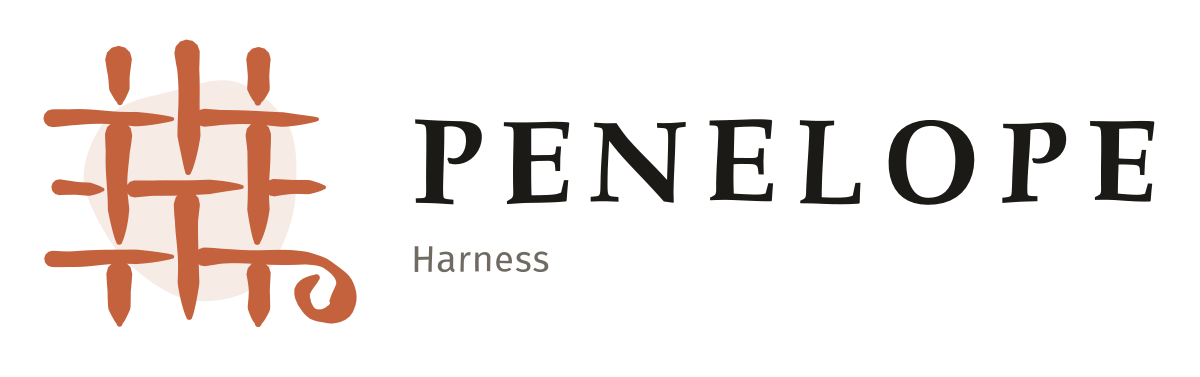
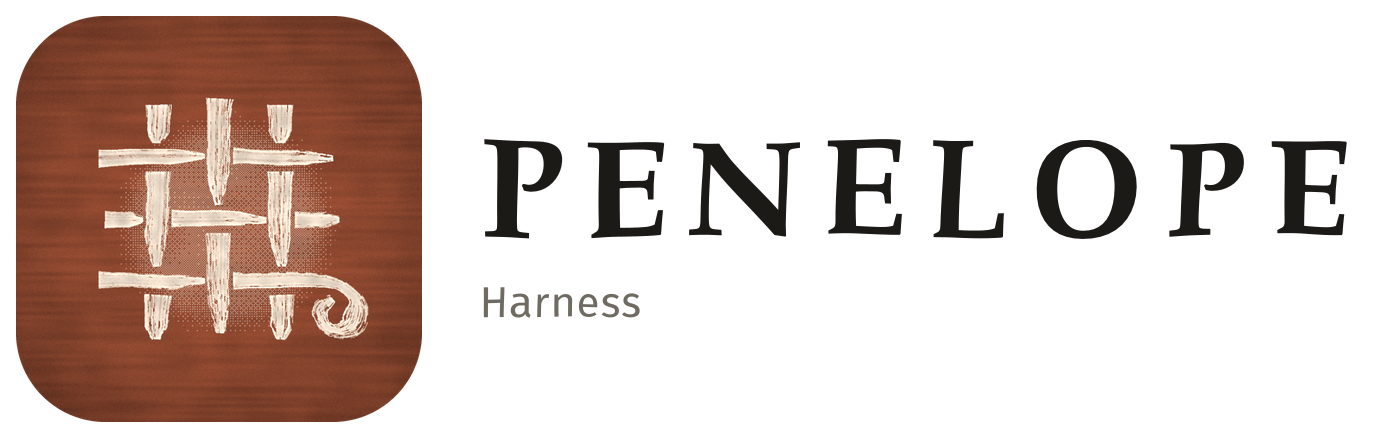
Penelope 0.8.0: agency renamed to Laertes, families Utis, Klea, Tiresias, Telemach, painted brand

diff --git a/cli/src/tools.rs b/cli/src/tools.rs
@@ -74,7 +74,7 @@ fn guard(ctx: &Ctx, text: &str) -> String {
     guard_count(ctx, text).0
 }
 
-/// The eight model families of Polytrope and what does each job in Penelope today.
+/// The eight model families of Laertes and what does each job in Penelope today.
 pub fn crew(ctx: &Ctx) -> String {
     let model = |key: &str| format!("{} ({})", ctx.cfg[key]["model"].as_str().unwrap_or("?"), ctx.cfg[key]["kind"].as_str().unwrap_or("?"));
     let masked = fs::read_to_string(ctx.root.join("stats.json")).ok().and_then(|s| serde_json::from_str::<serde_json::Value>(&s).ok())
@@ -88,19 +88,19 @@ pub fn crew(ctx: &Ctx) -> String {
             "off" => format!("main model {} writes every tool call", model("main")),
             mode => format!("stand-in {} runs lookups as scout (delegate {})", crate::scout::model(ctx)["model"].as_str().unwrap_or("?"), mode),
         }),
-        ("Teiresias", "router and decisions", "fixed rules: safe list for commands, walk through the memory map".to_string()),
-        ("Outis", "privacy and PII detection", privacy),
+        ("Tiresias", "router and decisions", "fixed rules: safe list for commands, walk through the memory map".to_string()),
+        ("Utis", "privacy and PII detection", privacy),
         ("Aiolos", "compression and summaries", format!("stand-in {} condenses long tool output", model("weak"))),
         ("Argos", "judge and scoring", "not in use yet".to_string()),
-        ("Kleia", "data filter", "not in use yet".to_string()),
-        ("Phaiax", "coding and agents", format!("main model {}", model("main"))),
+        ("Klea", "data filter", "not in use yet".to_string()),
+        ("Telemach", "coding and agents", format!("main model {}", model("main"))),
         ("Proteus", "ML engineering, MoE conversion", "not in use yet".to_string()),
     ];
     let mut out = format!("{:<10} {:<31} {}\n", "family", "role", "today in Penelope");
     for (name, role, today) in rows {
         out.push_str(&format!("{:<10} {:<31} {}\n", name, role, today));
     }
-    out.push_str("\nNo Polytrope model is trained yet. A row changes when a model replaces its stand-in.\n");
+    out.push_str("\nNo Laertes model is trained yet. A row changes when a model replaces its stand-in.\n");
     out
 }
 

diff --git a/cli/src/tui/mod.rs b/cli/src/tui/mod.rs
@@ -153,7 +153,7 @@ pub struct App {
 }
 
 /// Labels and icons of status lines, so that a stored transcript finds its fixed texts again.
-const NOTE_KINDS: &[(&str, &str)] = &[("memory", "◆"), ("learned", "✦"), ("outis", "◆"), ("resumed", "↺"), ("unravel", "↺"), ("stopped", "■"), ("lesson", "✦"), ("scout", "◆"), ("note", "◆")];
+const NOTE_KINDS: &[(&str, &str)] = &[("memory", "◆"), ("learned", "✦"), ("utis", "◆"), ("resumed", "↺"), ("unravel", "↺"), ("stopped", "■"), ("lesson", "✦"), ("scout", "◆"), ("note", "◆")];
 
 fn item_json(item: &Item) -> serde_json::Value {
     use serde_json::json;
@@ -425,7 +425,7 @@ impl App {
                     self.scroll = 0;
                 }
                 Msg::Turn(TurnEvent::Masked(n)) => {
-                    self.note("◆", "outis", format!("{} masked in the request before the model read it", if n == 1 { "1 item".to_string() } else { format!("{} items", n) }), art::SEA);
+                    self.note("◆", "utis", format!("{} masked in the request before the model read it", if n == 1 { "1 item".to_string() } else { format!("{} items", n) }), art::SEA);
                     self.refresh_side();
                 }
                 Msg::Turn(TurnEvent::ToolStart { id, name, detail }) => {
@@ -1061,7 +1061,7 @@ mod tests {
         a.items.push(Item::Reply("Three files: **a**, `b` and c.".into()));
         let chat = screen(&mut a, 120, 40);
         assert!(chat.contains("list the files") && chat.contains("Three files: a, b and c."), "{}", chat);
-        assert!(chat.contains("MEMORY") && chat.contains("awake") && chat.contains("CREW") && chat.contains("outis"), "{}", chat);
+        assert!(chat.contains("MEMORY") && chat.contains("awake") && chat.contains("CREW") && chat.contains("utis"), "{}", chat);
         let narrow = screen(&mut a, 70, 24);
         assert!(!narrow.contains("MEMORY") && narrow.contains("[#|#]"), "{}", narrow);
     }

diff --git a/cli/src/tui/view.rs b/cli/src/tui/view.rs
@@ -400,7 +400,7 @@ fn sidebar(f: &mut Frame, app: &App, area: Rect) {
     ]);
     let (main, mkind) = model_line(app, false);
     let (weak, _) = model_line(app, true);
-    // The crew: the lead model answers, the stand-in for Aiolos condenses tool output, the rules of Outis guard secrets.
+    // The crew: the lead model answers, the stand-in for Aiolos condenses tool output, the rules of Utis guard secrets.
     let privacy = match app.ctx.cfg["privacy"].as_str().unwrap_or("rules") {
         "off" => "off".to_string(),
         level => format!("{} · {} masked", level, app.side.masked),
@@ -412,7 +412,7 @@ fn sidebar(f: &mut Frame, app: &App, area: Rect) {
             mode => format!("{} · scout {}", crate::scout::model(&app.ctx)["model"].as_str().unwrap_or("?"), mode),
         }, PAPER),
         ("aiolos".into(), format!("{} · stand-in", weak), PAPER),
-        ("outis".into(), privacy, PAPER),
+        ("utis".into(), privacy, PAPER),
     ]);
     if !app.side.plan.is_empty() {
         let rows = app.side.plan.iter().take(8).map(|(text, state)| {

diff --git a/cli/src/privacy.rs b/cli/src/privacy.rs
@@ -1,5 +1,5 @@
 //! The privacy filter. It masks secrets in requests and tool output before any model reads the text. Today it works
-//! with fixed rules. An Outis model takes this place later. The level "pii" also masks e-mail addresses and IBANs.
+//! with fixed rules. An Utis model takes this place later. The level "pii" also masks e-mail addresses and IBANs.
 
 const KEY_NAMES: &[&str] = &["password", "passwd", "secret", "token", "api_key", "apikey", "api-key", "access_key", "private_key", "authorization"];
 /// Prefix of a known key format and the shortest length that counts.

diff --git a/cli/src/main.rs b/cli/src/main.rs
@@ -1,4 +1,4 @@
-//! penelope: the Polytrope harness on the command line.
+//! penelope: the Laertes harness on the command line.
 
 mod backend;
 mod loom;

diff --git a/README.md b/README.md
@@ -1,13 +1,14 @@
-<p align="center"><img src="brand/lockup.png" alt="Penelope, the harness of Polytrope" width="70%"></p>
+<p align="center"><img src="brand/lockup.png" alt="Penelope, the harness of Laertes" width="70%"></p>
 
 # Penelope
 
-A command line harness that remembers the way. Penelope is the harness of Polytrope, an AI research agency. The name
-comes from the weaver of the Odyssey, who undid part of her work every night: the memory map of the harness can take
+A command line harness that remembers the way. Penelope is the harness of Laertes, an AI research agency. In the
+Odyssey Penelope weaves a shroud for Laertes and undoes part of it every night: the memory map of the harness can take
 notes back the same way. Earlier names of the project: Kate with the command `katecli` (until 0.3.0), Strix Forgery
-with the command `strix` (0.4.0).
+with the command `strix` (0.4.0). The agency was called VeeAI and Polytrope before. The model families Utis, Klea,
+Tiresias and Telemach were called Outis, Kleia, Teiresias and Phaiax until 0.7.0.
 
-Status: version 0.7.0, private. Seventeen real runs so far.
+Status: version 0.8.0, private. Seventeen real runs so far.
 
 <p align="center"><img src="docs/screens/chat.png" alt="penelope: transcript on the left, the woven mark and the session numbers on the right" width="100%"></p>
 
@@ -20,7 +21,7 @@ Status: version 0.7.0, private. Seventeen real runs so far.
 | [`brand/build/`](brand/build) | `term_art.sh` turns the SVG files into the pictures the interface draws |
 | [`docs/`](docs) | [`ROADMAP.md`](docs/ROADMAP.md) with every planned part and its state, screen pictures |
 
-The marks are drawn by a script in the Polytrope folder (`brand/build/` there). This folder holds a copy of the results.
+The marks are drawn by a script in the Laertes folder (`brand/build/` there). This folder holds a copy of the results.
 
 ## What it does
 
@@ -46,7 +47,7 @@ The marks are drawn by a script in the Polytrope folder (`brand/build/` there). 
 | Sessions as tabs | Every conversation through the `claude` command is stored with its transcript. The top row shows the sessions as tabs, `f2` opens the list, `f3` and `f4` change the tab, `penelope chat --resume N` opens one from the command line. | works, 1 test, 2 real sessions |
 | Setup | `penelope setup` asks seven questions with numbered answers: both models, who searches, privacy, both policies, the search source. `/setup` does the same from the interface. | works, 1 test |
 | Unravel | `penelope memory unravel [N]` takes back the last N notes of the memory map. A journal keeps the order of the notes. | works, 1 test |
-| Crew | `penelope crew` lists the eight model families of Polytrope and what does each job today. | works |
+| Crew | `penelope crew` lists the eight model families of Laertes and what does each job today. | works |
 | Statistic | `penelope stats` counts how many characters of tool output stayed away from the main model and how many items the filter masked. | works |
 
 ## Build
@@ -99,7 +100,7 @@ The side panel shows the woven square. Its loose thread at the lower right takes
 | asleep | `[#.#]` | grey | no key for 3 minutes |
 
 Below the mark: tokens and turns of the session, the crew (lead model, the stand-in for Aiolos that condenses tool
-output, the rules of Outis with their count), the way through the memory map, the share of tool output that stayed
+output, the rules of Utis with their count), the way through the memory map, the share of tool output that stayed
 away from the main model, ScreenCodec, plugins and the run policy. A terminal under 100 columns hides the panel and
 shows the face as text in the input box. A terminal without 24 bit colour gets the nearest of 216 colours.
 Paths on the screen show the home folder as `~`.
@@ -224,17 +225,17 @@ Runs of version 0.7.0 (2026-11-24):
 
 ## The crew
 
-Polytrope plans one small model family per job. `penelope crew` prints this table with the settings of the folder:
+Laertes plans one small model family per job. `penelope crew` prints this table with the settings of the folder:
 
 | Family | Job | Today in Penelope |
 |---|---|---|
 | Nostos | tool calling | the weaker model runs lookups as scout, the main model writes the other tool calls |
-| Teiresias | router and decisions | fixed rules: safe list for commands, walk through the memory map |
-| Outis | privacy and PII detection | fixed rules in `cli/src/privacy.rs` |
+| Tiresias | router and decisions | fixed rules: safe list for commands, walk through the memory map |
+| Utis | privacy and PII detection | fixed rules in `cli/src/privacy.rs` |
 | Aiolos | compression and summaries | the weaker model condenses long tool output |
 | Argos | judge and scoring | not in use |
-| Kleia | data filter | not in use |
-| Phaiax | coding and agents | the main model |
+| Klea | data filter | not in use |
+| Telemach | coding and agents | the main model |
 | Proteus | ML engineering, MoE conversion | not in use |
 
 None of the eight families is trained yet. The research folder of each family is `../models/NAME/research/`.

diff --git a/docs/ROADMAP.md b/docs/ROADMAP.md
@@ -1,6 +1,6 @@
 # Penelope roadmap
 
-Every part of the plan with its state on 2026-11-24, version 0.7.0. Earlier names: Kate until 0.3.0, Strix Forgery in 0.4.0.
+Every part of the plan with its state on 2026-11-24, version 0.8.0. Earlier names: Kate until 0.3.0, Strix Forgery in 0.4.0.
 
 ## Built
 
@@ -21,7 +21,7 @@ Every part of the plan with its state on 2026-11-24, version 0.7.0. Earlier name
 | Row of search sources with handover | `cli/src/search.rs` | claude and DuckDuckGo tried |
 | Tools `tree`, `outline`, `ask_user` | `cli/src/files.rs`, `cli/src/tools.rs` | 1 test, 1 real question |
 | Unravel: take back the last notes | `cli/src/memory.rs` | 1 test |
-| Crew in the side panel (lead, aiolos, outis) and `penelope crew` | `cli/src/tui/view.rs`, `cli/src/tools.rs` | shown in every screen picture |
+| Crew in the side panel (lead, aiolos, utis) and `penelope crew` | `cli/src/tui/view.rs`, `cli/src/tools.rs` | shown in every screen picture |
 | Woven mark with six moods in the interface | `cli/src/tui/art.rs` | built from `brand/term-weave.svg`, the loose thread takes the colour of the mood |
 | Routed tool output through a weaker model | `cli/src/tools.rs`, `cli/src/weak.rs` | 6,947 characters became 168 in one run |
 | Approval question for unsafe commands | `cli/src/tools.rs`, `cli/src/tui/mod.rs` | 2 real commands answered with yes |
@@ -48,7 +48,7 @@ Every part of the plan with its state on 2026-11-24, version 0.7.0. Earlier name
 | Lessons from the scout's own tool calls | the scout reports its failed calls, today only the calls of the main model are read |
 | A check that a lesson helps | count the tool calls of the same request before and after the lesson |
 | Diff in the question "Change this file?" | show the changed lines, today the dialog names file, line and line counts |
-| Outis as a model next to the rules | the first trained Outis 1 Mini behind the same `guard_count` call |
+| Utis as a model next to the rules | the first trained Utis 1 Mini behind the same `guard_count` call |
 | Test of ScreenCodec inside the harness | one request that opens a local page |
 | Comparison run without condensing | same request with `run_policy` unchanged and the weaker model switched off |
 
@@ -56,7 +56,7 @@ Every part of the plan with its state on 2026-11-24, version 0.7.0. Earlier name
 
 | Part | Open question |
 |---|---|
-| The eight model families (Nostos, Teiresias, Outis, Aiolos, Argos, Kleia, Phaiax, Proteus) | none is trained, each has a brief under `../models/NAME/research/` |
+| The eight model families (Nostos, Tiresias, Utis, Aiolos, Argos, Klea, Telemach, Proteus) | none is trained, each has a brief under `../models/NAME/research/` |
 | Scheduled tasks with a list in the interface | timer inside the harness or systemd user timers |
 | Bots (chat services) | which service first |
 | Hugging Face model browser and download | where models are stored, which runtime loads them |

diff --git a/brand/BRAND.md b/brand/BRAND.md
@@ -1,17 +1,19 @@
 # Penelope brand
 
-The mark of the harness is a woven square with one loose thread, drawn by hand in terracotta `#C4623E`. Penelope wove
-by day and undid part of the work at night. The loose thread stands for that: the memory map can take notes back.
+The mark of the harness is a woven square with one loose thread, painted in cream on terracotta `#C4623E`. Penelope wove
+the shroud for Laertes by day and undid part of the work at night. The loose thread stands for that: the memory map can
+take notes back.
 
 <img src="lockup.png" alt="Penelope lockup" width="60%">
 
-The files in this folder are a copy of `brand/penelope/` in the Polytrope folder. The script there draws them
-(`brand/build/brand_build.py`). The whole set of ten marks and the rules for it are described in the Polytrope `BRAND.md`.
+The files in this folder are a copy of `brand/penelope/` in the Laertes folder. The script there draws them
+(`brand/build/brand_build.py`). The whole set of ten marks and the rules for it are described in the Laertes `BRAND.md`.
 
 | File | Use |
 |---|---|
 | `mark.svg`, `mark-ink.svg`, `mark-paper.svg` | the weave in colour and in one colour |
-| `logo.svg`, `logo.png` | the weave on a paper tile, 512 pixels |
+| `logo.png` | the painted tile, 1024 pixels |
+| `logo.svg` | the flat tile as a vector file |
 | `lockup.svg`, `lockup.png` | weave, name and the word Harness |
 | `wordmark.svg` | the name in drawn capitals |
 | `favicon.svg`, `favicon-32.png`, `favicon-16.png` | small sizes |
